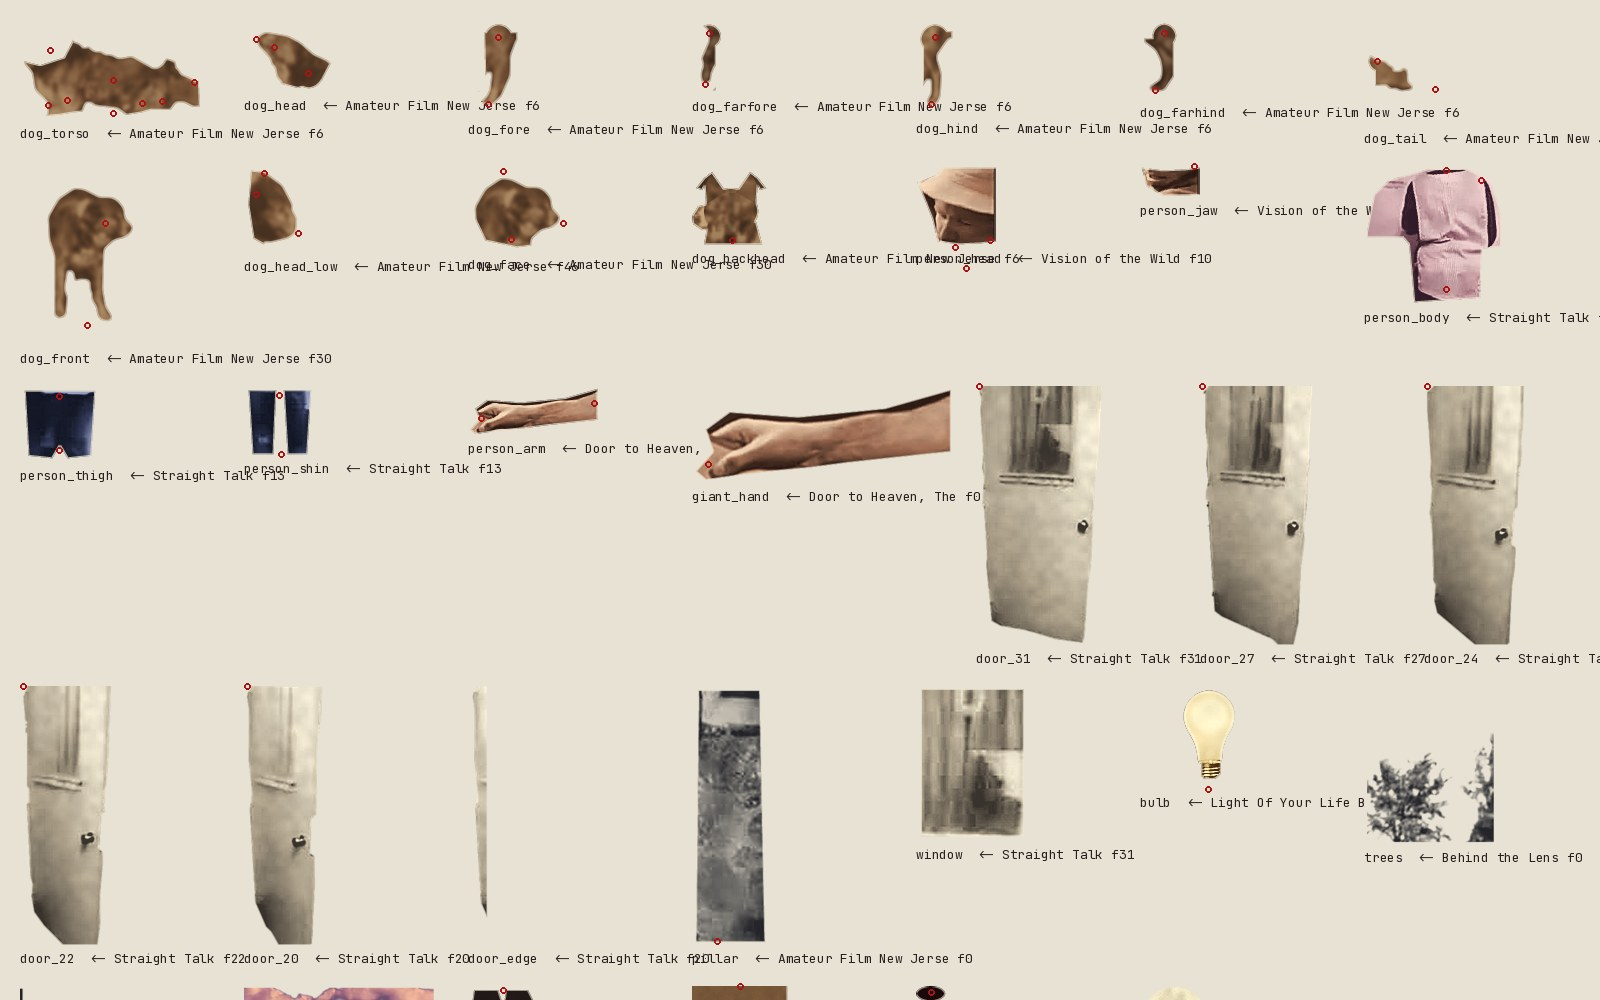
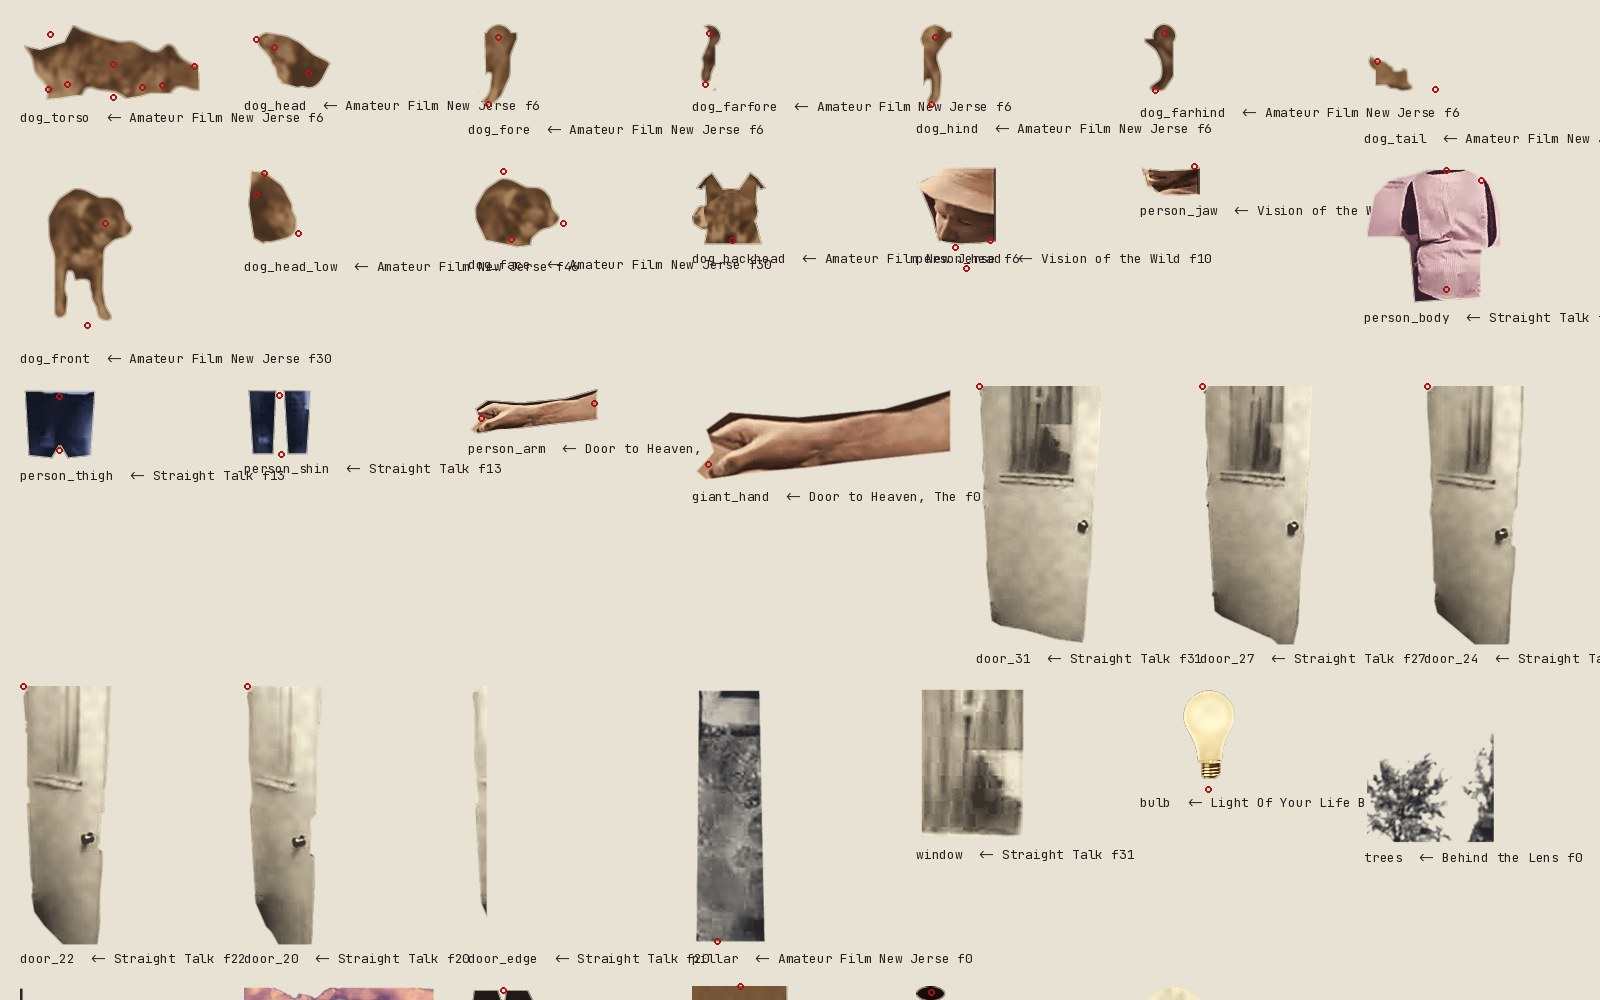
PAE-02: swarm work in progress (checkpoint)
Claude-Session: https://claude.ai/code/session_01NnogCfjFXeRgpEGgKH3eVT

Changed region(s): [[0.0, 0.031, 0.1562, 0.155]]

diff --git a/paeleo/handmade/52-gilliam-ephemera/build/cut_pieces.py b/paeleo/handmade/52-gilliam-ephemera/build/cut_pieces.py
@@ -42,7 +42,7 @@ def add(rec, **kw):
 DS = 1.31   # print enlargement: 1 source px -> 1.31 screen px (dog ~1.0 m = 210 px at 210 px/m)
 M6 = mpolys(DOGM, 6)
 HEAD = [(82, 74), (120, 78), (136, 90), (145, 104), (138, 117), (120, 123), (104, 119), (92, 102), (82, 92)]
-TORSO = [(108, 92), (166, 98), (240, 108), (242, 162), (226, 160), (220, 157), (205, 157), (198, 159), (186, 161),
+TORSO = [(108, 110), (138, 105), (170, 104), (240, 110), (242, 162), (226, 160), (220, 157), (205, 157), (198, 159), (186, 161),
          (156, 158), (146, 159), (134, 161), (120, 162), (108, 158)]
 FORE = [(130, 146), (155, 146), (155, 207), (121, 207), (121, 194), (131, 188)]
 FARFORE = [(116, 160), (131, 160), (131, 197), (116, 197)]
@@ -52,7 +52,7 @@ TAIL = [(236, 108), (290, 108), (290, 182), (236, 182)]
 P6 = prov('dog', 6)
 # regrade (repair 1): smooth scissor line along the matte, blotches blurred, contrast compressed, no sharpening
 DG = dict(smooth_mask=2.2, soften=1.7, contrast=.62, wash_amp=.04, sharpen=False, stretch=(4, 96))
-add(cut('dog_torso', dogf(6), [TORSO], DS, 'dog', M6, **DG, holes=[HEAD], seed=1, provenance=P6,
+add(cut('dog_torso', dogf(6), [TORSO], DS, 'dog', M6, **dict(DG, smooth_mask=4.0), holes=[HEAD], seed=1, provenance=P6,
         pins={'neck': (128, 112), 'shoulder': (141, 150), 'farshoulder': (126, 154), 'hip': (213, 151), 'farhip': (198, 152),
               'tailroot': (238, 136), 'centre': (176, 135), 'belly': (176, 160)}), op='crop+matte+scissor cut+tint')
 add(cut('dog_head', dogf(6), [HEAD, ('disc', 128, 112, 11)], DS, 'dog', M6, **DG, seed=2, provenance=P6,
